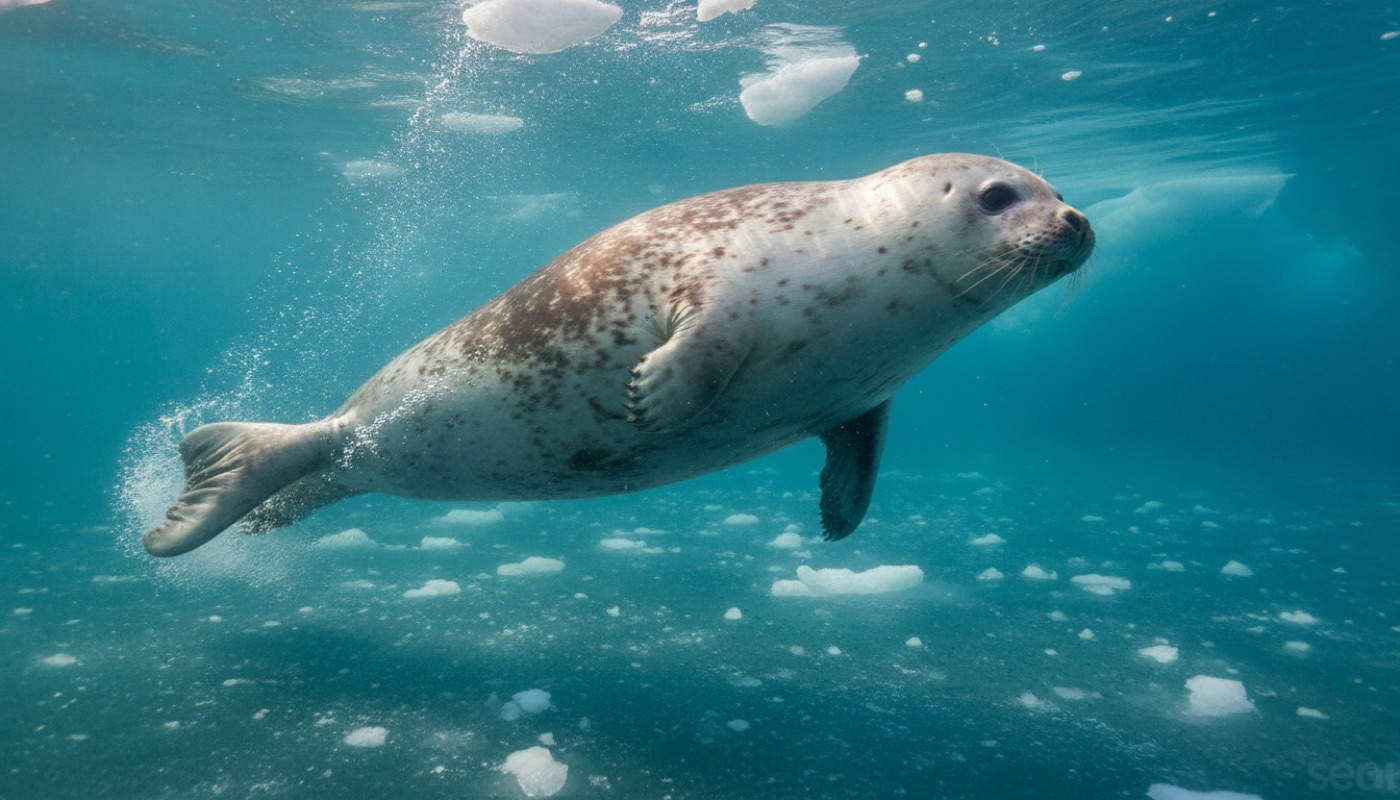
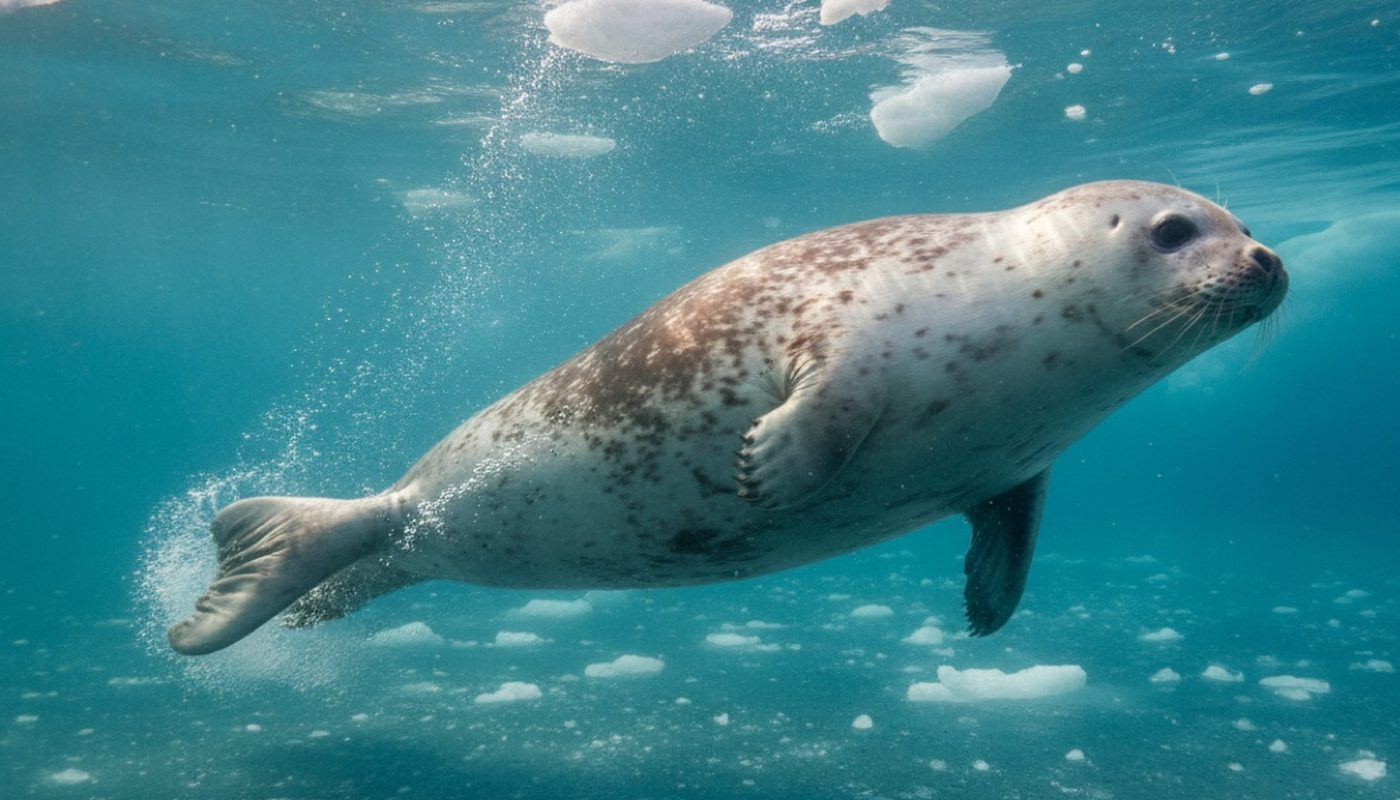
calendar: batch 4 reviewed — World Wildlife Day, Humpback, Panda, Seal, Manatee, Beaver live
Panda: one edit applied by hand (punctuation mismatch). Seal: cropped a faint
generation watermark off the cover.

diff --git a/content/calendar/manatee-appreciation-day-2027.md b/content/calendar/manatee-appreciation-day-2027.md
@@ -11,7 +11,7 @@ animalDay:
   animalName: manatee
   animalArticle: a
   campaign: manatee_appreciation_day_2027
-  greeting: "**Happy Manatee Appreciation Day!** Every year, on the last Wednesday of March, people celebrate the manatee — a slow, gentle giant that spends its whole life in warm water. The day comes from the Save the Manatee Club."
+  greeting: "**Happy Manatee Appreciation Day!** Every year, on the last Wednesday of March, people celebrate the manatee — a slow, gentle giant that spends its whole life in warm water. Save the Manatee Club, which has been helping manatees since 1981, invites everyone to join in."
   readAloudNote: "Read this one out loud together — it's short, and it's more fun with a slow, sleepy manatee voice."
   whereToSee:
     heading: Where to see a manatee
@@ -22,7 +22,7 @@ animalDay:
         places:
           - title: Stubby
             place: Columbus Zoo and Aquarium — Powell, Ohio
-            blurb: Stubby was hurt and can't go back to the wild, so the zoo is her home. Young rescued manatees grow up alongside her before heading back to Florida.
+            blurb: Stubby was hurt and probably can't go back to the wild, so the zoo is her home. Young rescued manatees grow up alongside her before heading back to Florida.
             url: https://www.columbuszoo.org/animals/florida-manatee
           - title: Manatee Springs
             place: Cincinnati Zoo & Botanical Garden — Cincinnati, Ohio
@@ -31,10 +31,10 @@ animalDay:
           - title: Manatee Critical Care Center
             place: ZooTampa — Tampa, Florida
             blurb: This zoo runs a real manatee hospital! It has helped more than 630 manatees, and most went back to the wild. Watch patients on the live underwater camera.
-            url: https://zootampa.org/florida-waters/
+            url: https://zootampa.org/conservation/florida-conservation/manatees/
           - title: Blue Spring State Park
             place: Orange City, Florida
-            blurb: In winter, hundreds of wild manatees swim into this warm spring to stay cosy. Manatee season runs November through March, so you can watch them from a long boardwalk.
+            blurb: In winter, hundreds of wild manatees swim into this warm spring to stay cosy, and you can watch them from a long boardwalk. Manatee season runs from about mid-November to late March, so plan a winter visit.
             url: https://www.floridastateparks.org/parks-and-trails/blue-spring-state-park
             linkText: Visit Blue Spring State Park
       - label: Around the world
@@ -45,7 +45,7 @@ animalDay:
             url: https://www.zoobeauval.com/en/zooparc/animals/west-indian-manatee
           - title: The Oceanium
             place: Odense ZOO — Odense, Denmark
-            blurb: In the Oceanium, you can watch manatees roll, turn somersaults, and even swim backwards!
+            blurb: In the Oceanium, you can watch manatees roll, turn somersaults, and even swim on their backs!
             url: https://www.odensezoo.dk/en/visit-zoo/animals/manatee/
           - title: Amazon-Guyana Biozone
             place: Parc Zoologique de Paris — Paris, France
@@ -55,19 +55,18 @@ animalDay:
   grownups: |
     Manatees are listed as Vulnerable — there aren't as many as there used to be. The Antillean manatees found through the Caribbean, Central America and South America have it hardest.
 
-    There's a hopeful story, though. In 1991, surveys counted only 1,267 manatees in Florida. Today there are at least 8,350. Slow-speed boating zones, warm-water refuges, and rescue programs have all helped — enough that in 2017 the US moved manatees from Endangered to Threatened. At ZooTampa, a real manatee hospital has rescued more than 630 manatees over 30+ years and returned most of them to the wild.
+    There's a hopeful story, though. In 1991, surveys counted only 1,267 manatees in Florida. Today there are at least 8,350 — some of that rise is from better counting, but a lot of it is real. Slow-speed boating zones, warm-water refuges, and rescue programs have all helped — enough that in 2017 the US moved manatees from Endangered to Threatened. The work isn't finished: seagrass loss has made some recent winters hard for Florida's manatees, which is one more reason people keep helping. At ZooTampa, a real manatee hospital has rescued more than 630 manatees over 30+ years and returned most of them to the wild.
 
-    Manatees move slowly, and boats move fast, so people who love manatees ask boaters to slow down and watch for them in "Manatee Zone" areas — that's the single biggest thing that protects them. This week, if you're near a river, lake, or the sea with a grown-up, help pick up litter and old fishing line — manatees can get tangled in it. And if you ever spot a "Manatee Zone — Slow Speed" sign, you can tell everyone what it means!
+    Manatees move slowly, and boats move fast, so people who love manatees ask boaters to slow down and watch for them in "Manatee Zone" areas — boats are one of the biggest dangers manatees face, so slow zones really matter. This week, if you're near a river, lake, or the sea with a grown-up, help pick up litter — and a grown-up can handle any old fishing line or hooks, since manatees can get tangled in it. And if you ever spot a "Manatee Zone — Slow Speed" sign, you can tell everyone what it means!
 
     Starters: "Did you know a manatee's closest cousin isn't a seal — it's an elephant?" "How do you think boats and manatees can share the same water safely?"
 
     If your kid asks *do manatees get hurt?* — this holds up: "Some do, mostly from boats going too fast, so people who study manatees ask boaters to slow down and watch for them — and there are special hospitals just for manatees that help them heal."
-  appCta: "Wild Atlas has a whole page built around this animal — narrated facts, the full scale comparison against a 5-year-old, and the sound a manatee actually makes."
+  appCta: "Wild Atlas has a whole page built around this animal — in the Legends of the Wild pack — narrated facts, the full scale comparison against a 5-year-old, and the weight scale showing 30 kids."
   appLinkText: Meet the manatee in Wild Atlas
   source:
     label: the U.S. Fish & Wildlife Service
     url: https://www.fws.gov/species/west-indian-manatee-trichechus-manatus
-status: draft
 blogStatus: scheduled
 ---
 
@@ -75,13 +74,15 @@ A brand-new baby manatee is already longer than a five-year-old is tall — and 
 
 {% figure "/assets/blog/manatee-appreciation-day-2027/cover.jpg", "A West Indian manatee gliding low over a sandy seagrass bed" %}
 
-A newborn calf is about 120 centimeters (4 feet) long and weighs around 30 kilograms (66 pounds). That's bigger than you, on the very first day of its life.
+A newborn calf is about 120 centimeters (4 feet) long and weighs around 30 kilograms (66 pounds). That's bigger than a five-year-old, on the very first day of its life.
 
-Manatees look like gentle giants of the sea, round and wrinkly and slow. But their closest cousin on land isn't a seal or a dolphin — it's the elephant!
+Manatees look like gentle giants of the sea, round and wrinkly and slow. But their closest cousin isn't a seal or a dolphin — it's the elephant, which lives on land!
 
 {% figure "/assets/blog/manatee-appreciation-day-2027/scale.jpg", "A manatee compared in length to the Wild Atlas explorer kid" %}
 
-A grown-up manatee is almost as long as three five-year-olds lying head to toe in a row, and it weighs about as much as 30 five-year-olds — all standing together on one big scale.
+A grown-up manatee is almost as long as three five-year-olds lying head to toe in a row.
+
+And it weighs about as much as 30 five-year-olds — all standing together on one big scale.
 
 {% figure "/assets/blog/manatee-appreciation-day-2027/weight.jpg", "A scale showing a manatee's weight compared to 30 five-year-olds" %}
 
@@ -95,6 +96,6 @@ A baby manatee stays close to its mom for a year or two, learning where the warm
 
 {% figure "/assets/blog/manatee-appreciation-day-2027/baby.jpg", "A young manatee calf resting at the surface of a shallow river" %}
 
-Can you hold your breath and float still like a resting manatee? Can you wiggle your fingers like a manatee's little flippers?
+Can you take a big breath and float your arms still, like a resting manatee? Can you wiggle your fingers like a manatee's little flippers?
 
 When the sea turns chilly in winter, manatees swim to warm springs to cosy up together — kind of like curling up under a warm blanket.

diff --git a/content/calendar/world-wildlife-day-2027.md b/content/calendar/world-wildlife-day-2027.md
@@ -1,8 +1,8 @@
 ---
-title: "World Wildlife Day: Lion Facts for Kids — A Roar You Can Hear 8 Kilometres Away"
+title: "World Wildlife Day: Lion Facts for Kids — A Roar You Can Hear Up to 8 Kilometres Away"
 date: 2027-03-03
 author: Wild Atlas
-excerpt: "Happy World Wildlife Day! This year we're meeting the lion — a roar you can hear 8 kilometres away, a family called a pride, and real lions coming home to a park in Rwanda."
+excerpt: "Happy World Wildlife Day! This year we're meeting the lion — a roar you can hear up to 8 kilometres away, a family called a pride, and real lions coming home to a park in Rwanda."
 coverImage: /assets/blog/world-wildlife-day-2027/cover.jpg
 tags: [animals, conservation, family]
 animalDay:
@@ -11,28 +11,28 @@ animalDay:
   animalName: lion
   animalArticle: a
   campaign: world_wildlife_day_2027
-  greeting: "**Happy World Wildlife Day!** Every March 3, the whole world celebrates wild animals and plants — it's the day the world's biggest wildlife treaty, CITES, was signed back in 1973. This year, we're meeting one wild animal: the lion."
+  greeting: "**Happy World Wildlife Day!** Every March 3, the whole world celebrates wild animals and plants — it's the day in 1973 when countries signed CITES, the treaty that protects wild animals and plants from harmful trade. This year, we're meeting one wild animal: the lion."
   readAloudNote: "Read this one out loud together — it's short, and it's even better with a big lion roar."
   whereToSee:
     heading: Where to see a lion
-    intro: "In the wild, lions live on the grassy plains and savanna of sub-Saharan Africa, where safari-goers can watch them from a vehicle with a guide. For the rest of us, these zoos around the world have lions you can visit."
+    intro: "In the wild, lions live on the grassy plains and savanna of sub-Saharan Africa (plus one small forest in India), where safari-goers can watch them from a vehicle with a guide. For the rest of us, these zoos around the world have lions you can visit."
     findLabel: Find the nearest zoo with lions
     groups:
       - label: North America
         places:
           - title: African Savanna
             place: Toronto Zoo — Toronto, Ontario
-            blurb: Look for the lions' huge eyes here — the zoo says they're the biggest of any meat-eating animal, perfect for seeing at night.
+            blurb: Look for the lions' big amber eyes here — like all cats, lions see really well at night, when they're most active.
             url: https://www.torontozoo.com/animals/African%20lion
             linkText: Visit Toronto Zoo
           - title: Predators of the Serengeti
             place: Oregon Zoo — Portland, Oregon
-            blurb: The zoo says lions have nine different calls. Listen closely on your visit and see how many you can spot.
+            blurb: The zoo says lions have nine different calls. Listen closely on your visit and see how many you can hear.
             url: https://www.oregonzoo.org/animals/lion
             linkText: Visit Oregon Zoo
           - title: Helping lions far away
             place: Houston Zoo — Houston, Texas
-            blurb: Houston's lions live across from the tigers and bears. The zoo helps real lion projects in Kenya and Mozambique that keep lions and farmers safe.
+            blurb: Houston's lions live across from the tigers and bears. The zoo also helps real lion projects far away in Kenya and Mozambique.
             url: https://www.houstonzoo.org/explore/animals/lion/
             linkText: Visit Houston Zoo
           - title: A small pride
@@ -49,7 +49,7 @@ animalDay:
             linkText: Visit Taronga Western Plains Zoo
           - title: Lions 360
             place: Monarto Safari Park — near Adelaide, Australia
-            blurb: Home to one of Australia's biggest lion prides. From a safe viewing pod, you can watch the pride up close.
+            blurb: Home to one of Australia's biggest lion prides. On the Lions 360 experience (booked separately), you walk through a safe viewing area while the pride moves all around you.
             url: https://www.monartosafari.com.au/animals/african-lion
             linkText: Visit Monarto Safari Park
           - title: Lion Country
@@ -59,19 +59,18 @@ animalDay:
             linkText: Visit Yorkshire Wildlife Park
     note: Animals sometimes move — check the zoo's own website before you visit.
   grownups: |
-    Lions are listed as Vulnerable, with roughly 20,000 to 25,000 left in the wild across Africa, and they've disappeared from about 94% of the land they used to roam — mostly from lost habitat and conflict with people over livestock. There's a hopeful story, too: Rwanda's Akagera National Park lost every one of its lions by 2002. In 2015, conservationists carefully brought seven lions back. By 2023, the park reported more than 50.
+    Lions are listed as Vulnerable on the IUCN Red List, with roughly 20,000 to 25,000 left in the wild across Africa, and they've disappeared from about 94% of the land they used to roam — mostly from lost habitat and conflict with people over livestock. There's a hopeful story, too: Rwanda's Akagera National Park lost every one of its lions by 2002. In 2015, conservationists carefully brought seven lions back. By 2023, the park reported more than 50.
 
     Before your next zoo trip, look up its lion conservation partner together and talk about what "helping lions in the wild" actually means — it's a simple way to turn a visit into something a little more real.
 
-    Starters: "If you were a lion cub, what would you want your pride to be like?" "A lion's roar can travel 8 kilometres — how far is that from our house?" "What do you think it takes to bring lions back to a place where they'd disappeared?"
+    Starters: "If you were a lion cub, what would you want your pride to be like?" "A lion's roar can travel up to 8 kilometres — how far is that from our house?" "What do you think it takes to bring lions back to a place where they'd disappeared?"
 
     If your kid asks *could a lion hurt me?* — this holds up: "Lions are strong wild hunters, so we only ever watch them from far away — a safari truck or a zoo fence. Not because lions are bad, but because wild animals need their space, like we'd want ours."
-  appCta: "Wild Atlas has a whole page built around this animal — narrated facts, the full scale comparison against a 5-year-old, and the sound a lion actually makes."
+  appCta: "Wild Atlas has a whole page built around this animal, in the Safari Stars pack — narrated facts, the full scale comparison against a 5-year-old, and what a lion's roar sounds like."
   appLinkText: Meet the lion in Wild Atlas
   source:
     label: San Diego Zoo Wildlife Alliance
     url: https://animals.sandiegozoo.org/animals/lion
-status: draft
 blogStatus: scheduled
 ---
 
@@ -87,7 +86,7 @@ Prides make their home on the grassy plains and open woodland of Africa, resting
 
 Can you roar as loud as you can, then whisper it? Which one carries farther?
 
-Stand next to a big lion, and the top of your head would only reach its shoulder. Nose to tail, a big lion is even longer than two five-year-olds lying down head to toe.
+Stand next to a big lion, and the top of your head wouldn't even reach its shoulder. Nose to tail, a big lion is even longer than two five-year-olds lying down head to toe.
 
 {% figure "/assets/blog/world-wildlife-day-2027/scale.jpg", "A maned lion standing next to a 5-year-old explorer for scale, with arrows marking its length and shoulder height" %}
 
@@ -103,6 +102,6 @@ Lions spend most of the day resting in the shade — up to 20 hours!
 
 Can you curl up small like a hiding cub, then stretch up tall like a grown lion?
 
-Baby lions are called cubs. They're born with spots on their fur that fade as they grow, and their eyes stay shut for their first week or so. Mum keeps them hidden and safe for a few weeks before they meet the rest of the pride.
+Baby lions are called cubs. They're born with spots on their fur that fade as they grow, and their eyes stay shut for about their first week or two. Mum keeps them hidden and safe for a few weeks before they meet the rest of the pride.
 
 {% figure "/assets/blog/world-wildlife-day-2027/baby.jpg", "A lion cub with faintly spotted tawny fur sitting upright in savanna grass at sunrise" %}

diff --git a/content/calendar/humpback-whale-facts-for-kids.md b/content/calendar/humpback-whale-facts-for-kids.md
@@ -14,7 +14,7 @@ animalDay:
   readAloudNote: "Read this one out loud together — it's short, and it's even better with a long, low singing voice."
   whereToSee:
     heading: Where to see a humpback whale
-    intro: "In the wild, humpback whales gather in places like Hawai'i's warm bays and Alaska's icy fjords to feed, breed, and raise their calves. For the rest of us, no zoo or aquarium anywhere keeps a humpback whale — they're much too big, and they swim across whole oceans. The only way to see a real one is from a boat or a beach, in places where whales visit every year."
+    intro: "In the wild, humpback whales gather in places like Hawai'i's warm bays and Alaska's icy fjords to feed, breed, and raise their calves. For the rest of us, no zoo or aquarium anywhere keeps a humpback whale — they're much too big, and they swim across whole oceans. The only way to see a real one is from a boat or a beach, in places where whales visit every year. Most of us will meet a humpback through photos, videos, and stories like this one, and that's a real way to get to know them too."
     groups:
       - label: North America
         places:
@@ -24,7 +24,7 @@ animalDay:
             url: https://hawaiihumpbackwhale.noaa.gov/
           - title: Summer feeding grounds
             place: Glacier Bay National Park, Alaska
-            blurb: In summer, humpbacks travel to these icy Alaskan waters to feast on fish. Park rangers make boats slow down to help keep the whales safe.
+            blurb: In summer, humpbacks travel to these icy Alaskan waters to feast on krill and little fish. The park has special rules that make boats slow down to help keep the whales safe.
             url: https://www.nps.gov/glba/learn/nature/whales.htm
       - label: Around the world
         places:
@@ -35,24 +35,23 @@ animalDay:
           - title: Cold northern feeding waters
             place: Húsavík, North Iceland
             blurb: Far up north, humpbacks visit Iceland's cold waters each summer to feed before heading south again.
-            url: https://www.visiticeland.com/article/whale-watching
+            url: https://www.visithusavik.is/
     note: "Humpback whales visit different oceans in different seasons, so where and when you might see one changes through the year — check before you plan a trip."
   grownups: |
-    Humpback whales are listed as Least Concern by the IUCN, and their comeback is one of the great ocean recovery stories. In the 1960s, only about 5,000 humpbacks were left in the whole world after decades of whaling. Today there are roughly 135,000.
+    Humpback whales are listed as Least Concern by the IUCN, and their comeback is one of the great ocean recovery stories — though a few populations, like the humpbacks of the Arabian Sea, are still endangered. In the 1960s, only about 5,000 humpbacks were left in the whole world after decades of whaling. Today there are roughly 135,000.
 
     One population tells the story best. Humpbacks that breed off Brazil numbered nearly 27,000 in 1830. Whaling drove them down to only about 450 by the mid-1950s. People stopped hunting them, and a 2019 study found they'd recovered to about 93% of their original numbers.
 
-    Humpbacks still face real risks today — ships, fishing nets, and ocean noise can hurt them. This week's hope action: be a whale-watching helper. Practice saying "Slow down, whales around!" and draw a boat keeping its distance from a whale. A drawing won't slow a real ship, but knowing that whales need space is how whale helpers start.
+    Humpbacks still face real risks today — ships, fishing gear, and ocean noise can hurt them. This week's hope action: be a whale-watching helper. Practice saying "Slow down, whales around!" and draw a boat keeping its distance from a whale. A drawing won't slow a real ship, but knowing that whales need space is how whale helpers start.
 
     Starters: "If you could sing a song that traveled for miles underwater, what would you want other whales to know?" "What do you think it feels like to swim thousands of miles, with your mom right beside you the whole way?"
 
-    If your kid asks *could a whale swallow me?* — this holds up: "No — a humpback has no teeth. It eats tiny things like krill, strained through bristly plates in its mouth. You're much too big."
-  appCta: "The humpback whale isn't in Wild Atlas yet — but you can meet its giant cousin, the blue whale, the largest animal that has ever lived, along with 200+ other animals, each with narrated facts to explore."
+    If your kid asks *could a whale swallow me?* — this holds up: "No — a humpback has no teeth, and its throat is far too narrow to swallow a person. It eats tiny things like krill and small fish, strained through bristly plates in its mouth. You're much too big."
+  appCta: "The humpback whale isn't in Wild Atlas — but its giant cousin, the blue whale, the largest animal known to have ever lived, is in the Ocean Creatures pack, along with 200+ other animals across Wild Atlas, each with narrated facts to explore."
   appLinkText: Meet the blue whale in Wild Atlas
   source:
     label: NOAA Fisheries
     url: https://www.fisheries.noaa.gov/species/humpback-whale
-status: draft
 blogStatus: scheduled
 ---
 
@@ -66,7 +65,7 @@ A humpback doesn't have teeth. It has hundreds of bristly plates called baleen, 
 
 {% figure "/assets/blog/humpback-whale-facts-for-kids/scale.jpg", "A side-view illustration of a humpback whale next to the tiny Wild Atlas explorer in a snorkel mask, with an arrow measuring the whale's length" %}
 
-A grown-up humpback is about as long as 14 five-year-olds lying head to toe — around 15 meters (49 feet)! Its front flippers are so long that its scientific name actually means "big-winged." One flipper alone can be longer than a car.
+A grown-up humpback is about as long as 14 five-year-olds lying head to toe — around 15 meters (49 feet)! Its front flippers are so long that the first part of its scientific name, Megaptera, actually means "big-winged." One flipper alone can be longer than a car.
 
 {% figure "/assets/blog/humpback-whale-facts-for-kids/weight.jpg", "A weight diagram comparing one humpback whale on one scale to more than 1,500 tiny 5-year-old figures on the other" %}
 
@@ -78,6 +77,6 @@ A brand-new baby humpback, called a calf, is already about 4 times as long as a 
 
 Some humpbacks are team players, too. They work together to blow a giant circle of bubbles underwater, trapping fish inside it, then burst up through the middle with their mouths wide open!
 
-Can you hum one long, low note like a whale song, and hold it as long as you can? Can you stretch your arms out wide like a big flipper, then slap them down for a splashy breach?
+Can you hum one long, low note like a whale song, and hold it as long as you can? Can you stretch your arms out wide like big flippers? Now rise up on your tiptoes, then swoosh back down — that's how a humpback breaches, leaping out of the water and landing with a big splash!
 
-{% figure "/assets/blog/humpback-whale-facts-for-kids/habitat.jpg", "A humpback whale breaching in grey-green water in a cold Alaskan fjord, one long flipper held up like a wing, with forested mountains behind it" %}
+{% figure "/assets/blog/humpback-whale-facts-for-kids/habitat.jpg", "A humpback whale breaching in grey-green water in a cold northern fjord, one long flipper held up like a wing, with forested, snow-dusted mountains behind it" %}

diff --git a/content/calendar/national-panda-day-2027.md b/content/calendar/national-panda-day-2027.md
@@ -30,7 +30,7 @@ animalDay:
             url: https://sandiegozoowildlifealliance.org/panda
           - title: Ping Ping and Fu Shuang
             place: Zoo Atlanta — Atlanta, Georgia
-            blurb: The newest pandas in the United States just arrived from China — check the zoo's site to see when they're out on view.
+            blurb: Ping Ping and Fu Shuang came from China in fall 2026 — the newest giant pandas in the United States. Check the zoo's site to make sure they're out on view before you go.
             url: https://zooatlanta.org/animal/giant-panda/
             linkText: Visit Zoo Atlanta
       - label: Around the world
@@ -41,7 +41,7 @@ animalDay:
             url: https://www.adelaidezoo.com.au/animals/giant-panda/
           - title: Leni and Lotti
             place: Zoo Berlin — Berlin, Germany
-            blurb: Germany's only giant pandas are twins, born at the zoo in 2024.
+            blurb: Leni and Lotti are twins, born at the zoo in 2024 — together with their mom and dad, they're the only giant pandas in Germany.
             url: https://www.zoo-berlin.de/en/animals/giant-panda
           - title: Lan Yun and He Feng
             place: Tiergarten Schönbrunn — Vienna, Austria
@@ -50,9 +50,9 @@ animalDay:
             linkText: Visit Tiergarten Schönbrunn
     note: Animals sometimes move — check the zoo's own website before you visit.
   grownups: |
-    Giant pandas are listed as Vulnerable (IUCN) — but here's the hopeful part: in 2016, the IUCN moved pandas from Endangered to Vulnerable, and China's own government followed in 2021. A national survey counted 1,864 wild pandas, a 17% rise over the decade before, thanks to protected bamboo forests. In 2021, China opened the Giant Panda National Park, joining dozens of reserves into one connected space more than three times the size of Yellowstone, so separated panda groups can find each other again.
+    Giant pandas are listed as Vulnerable (IUCN) — but here's the hopeful part: in 2016, the IUCN moved pandas from Endangered to Vulnerable, and China's own government followed in 2021. China's last national survey (2011–2014) counted 1,864 wild pandas, a 17% rise over the decade before, thanks to protected bamboo forests. In 2021, China opened the Giant Panda National Park, joining dozens of reserves into one connected space more than twice the size of Yellowstone, so separated panda groups can find each other again.
 
-    This week, try a Bamboo Count: grab a timer and see how many celery or carrot sticks you can crunch in one minute, like a panda. Then draw a map of a panda forest with a green path connecting two patches — that's what the new national park does for real pandas.
+    This week, try a Bamboo Count: sit down together and slowly crunch some celery or cucumber sticks for one minute, like a panda — a grown-up should watch, and little ones can use soft pieces. Then draw a map of a panda forest with a green path connecting two patches — that's what the new national park does for real pandas.
 
     Starters: "If you had to eat the same food almost all day, what would you pick?" "What do you think it would feel like to have a wrist that works like a thumb?"
 
@@ -62,7 +62,6 @@ animalDay:
   source:
     label: Smithsonian's National Zoo
     url: https://nationalzoo.si.edu/animals/giant-panda
-status: draft
 blogStatus: scheduled
 ---
 
@@ -70,24 +69,24 @@ When a giant panda is born, it's pink, almost bare, and about the size of a stic
 
 {% figure "/assets/blog/national-panda-day-2027/cover.jpg", "A giant panda walking through a bamboo forest" %}
 
-A giant panda is a real bear — but unlike most bears, it almost only eats bamboo. More than 99 out of 100 bites a panda takes are bamboo! Bamboo isn't very filling, so a panda eats for up to 16 hours a day — that's most of the time you're awake.
+A giant panda is a real bear — but unlike most bears, it almost only eats bamboo. More than 99 out of 100 bites a panda takes are bamboo! Bamboo isn't very filling, so a panda eats for up to 16 hours a day — that's most of the whole day!
 
-How does a panda hold onto slippery bamboo stalks? It has a special wrist bone that works just like an extra thumb, so it can grip a stalk the way you hold a carrot stick.
+How does a panda hold onto slippery bamboo stalks? It has a special wrist bone that works like an extra thumb, so it can grip a stalk the way you hold a carrot stick.
 
 Can you pretend to munch bamboo for one whole minute, like a panda does for most of its day?
 
-{% figure "/assets/blog/national-panda-day-2027/scale.jpg", "A giant panda standing beside the Wild Atlas child explorer for scale" %}
+{% figure "/assets/blog/national-panda-day-2027/scale.jpg", "Illustrated scale diagram: a giant panda on all fours beside the Wild Atlas child explorer, with an arrow showing 80 centimetres (2 feet 8 inches) from the ground to the panda's shoulder and 1.5 metres (5 feet) nose to tail", "Follow the up-and-down arrow: that's how tall a panda is at the shoulder — about up to your chest." %}
 
 Standing on all fours, a grown-up panda's back comes up to about your chest — and nose to tail, it's longer than you are tall.
 
 {% figure "/assets/blog/national-panda-day-2027/weight.jpg", "A scale comparing a giant panda's weight to seven 5-year-old children" %}
 
-Can you picture seven friends all standing on one big scale together? That's about how much one grown-up panda weighs.
+Can you picture seven five-year-olds all standing on one big scale together? That's about how much one grown-up panda weighs.
 
 Because bamboo is hard to digest, a panda can poop up to 40 times a day! And even though pandas are real bears, they don't hibernate — they keep munching bamboo, even in the snow. Sometimes a panda mom has twins!
 
 Pandas bleat a bit like a sheep, and sometimes honk. Can you try out your best panda honk?
 
-{% figure "/assets/blog/national-panda-day-2027/baby.jpg", "A fluffy young panda cub lying in bamboo leaves" %}
+{% figure "/assets/blog/national-panda-day-2027/baby.jpg", "A fluffy young panda cub with wide dark eyes, crouching on bamboo leaves" %}
 
 By the time a cub looks like this — fluffy, round, and full of fur — it's already grown a lot from the stick-of-butter size it was on the day it was born. It'll stay close to its mom for about a year and a half, learning to climb and find bamboo of its own.

diff --git a/content/calendar/international-beaver-day-2027.md b/content/calendar/international-beaver-day-2027.md
@@ -39,12 +39,12 @@ animalDay:
         places:
           - title: Scotland's first wild beavers
             place: Knapdale Forest, Argyll — Scotland
-            blurb: Scotland's first official wild beavers were set free here in 2009. Walk the forest trail and look for their dams and lodges.
+            blurb: Scotland's first official wild beavers were set free here in 2009. Walk the forest trails and look for signs of beavers, like chewed stumps, dams, and lodges.
             url: https://forestryandland.gov.scot/blog/meet-the-beavers-of-knapdale
             linkText: Learn about Knapdale's beavers
           - title: Beavers that came back on their own
             place: River Otter, East Devon — England
-            blurb: Wild beavers showed up along this river on their own, and they've built dam after dam ever since.
+            blurb: Wild beavers showed up along this river on their own, and they've built dam after dam ever since. It's a river to read about rather than a spot to visit.
             url: https://www.gov.uk/government/news/five-year-beaver-reintroduction-trial-successfully-completed
             linkText: Read the River Otter story
     cousin:
@@ -56,19 +56,18 @@ animalDay:
   grownups: |
     Eurasian beavers are listed as Least Concern by the IUCN, and their numbers are increasing — a real conservation win. But it wasn't always this way: about a hundred years ago, people hunted beavers so much that very few were left, as few as 1,200 across all of Europe and Asia. Beavers disappeared from Britain entirely, for about 400 years.
 
-    Then people changed the rules. Wild beavers turned up again on Devon's River Otter around 2008, and in 2020 the government said they'd proven so good for the river that they could stay for good. By 2025, England was working out how to let beavers return to rivers across the whole country, and in Scotland, beavers have even been set free in new places like Glen Affric. Across Europe and Asia, beaver numbers have grown from about 1,200 to around 1.5 million.
+    Then people changed the rules. Wild beavers turned up again on Devon's River Otter around 2008, and in 2020 the government said they'd proven so good for the river that they could stay for good. In 2025, England set out a plan to license wild beaver releases in more rivers, and in Scotland, beavers have even been set free in new places like Glen Affric. Across Europe and Asia, beaver numbers have grown from about 1,200 to around 1.5 million.
 
-    Go on a beaver-sign hunt this week: on a walk by a stream or pond, look for tree stumps chewed to a pencil point, or piles of sticks. Look, maybe draw what you find, and leave everything just as it is.
+    Go on a beaver-sign hunt this week: on a walk by a stream or pond (stay on the path, away from the water's edge), look for tree stumps chewed to a pencil point, or piles of sticks. Look, maybe draw what you find, and leave everything just as it is.
 
     Starters: "If you could build a house out of just sticks and mud, what would you build first?" "Why do you think a beaver's pond is a good home for lots of other animals too?"
 
     If your kid asks *would a beaver hurt me?* — this holds up: "No — a beaver would much rather swim away and hide than come near a person. If you ever saw one, the best thing to do is stay still and quiet and just watch."
-  appCta: "Wild Atlas has a whole page built around this animal, part of the Wild Americas pack — narrated facts, the full scale comparison against a 5-year-old, and the sound a beaver actually makes."
+  appCta: "Wild Atlas has a whole page about beavers, part of the Wild Americas pack — narrated facts and the full scale comparison against a 5-year-old."
   appLinkText: Meet the beaver in Wild Atlas
   source:
     label: the IUCN Red List
     url: https://www.iucnredlist.org/species/4007/197499749
-status: draft
 blogStatus: scheduled
 ---
 
@@ -86,7 +85,7 @@ Its body alone is almost as long as you are tall — and add its big, flat tail,
 
 {% figure "/assets/blog/international-beaver-day-2027/weight.jpg", "A scale showing a Eurasian beaver's weight compared to a 5-year-old" %}
 
-A grown-up beaver weighs about as much as one 5-year-old — a really big one weighs even more, almost too heavy to budge!
+A grown-up beaver weighs about as much as one 5-year-old — a really big one weighs about as much as one and a half 5-year-olds!
 
 SMACK! A beaver slaps its big flat tail on the water to warn its family. Can you slap your hand on the water like that — SPLASH?
 
